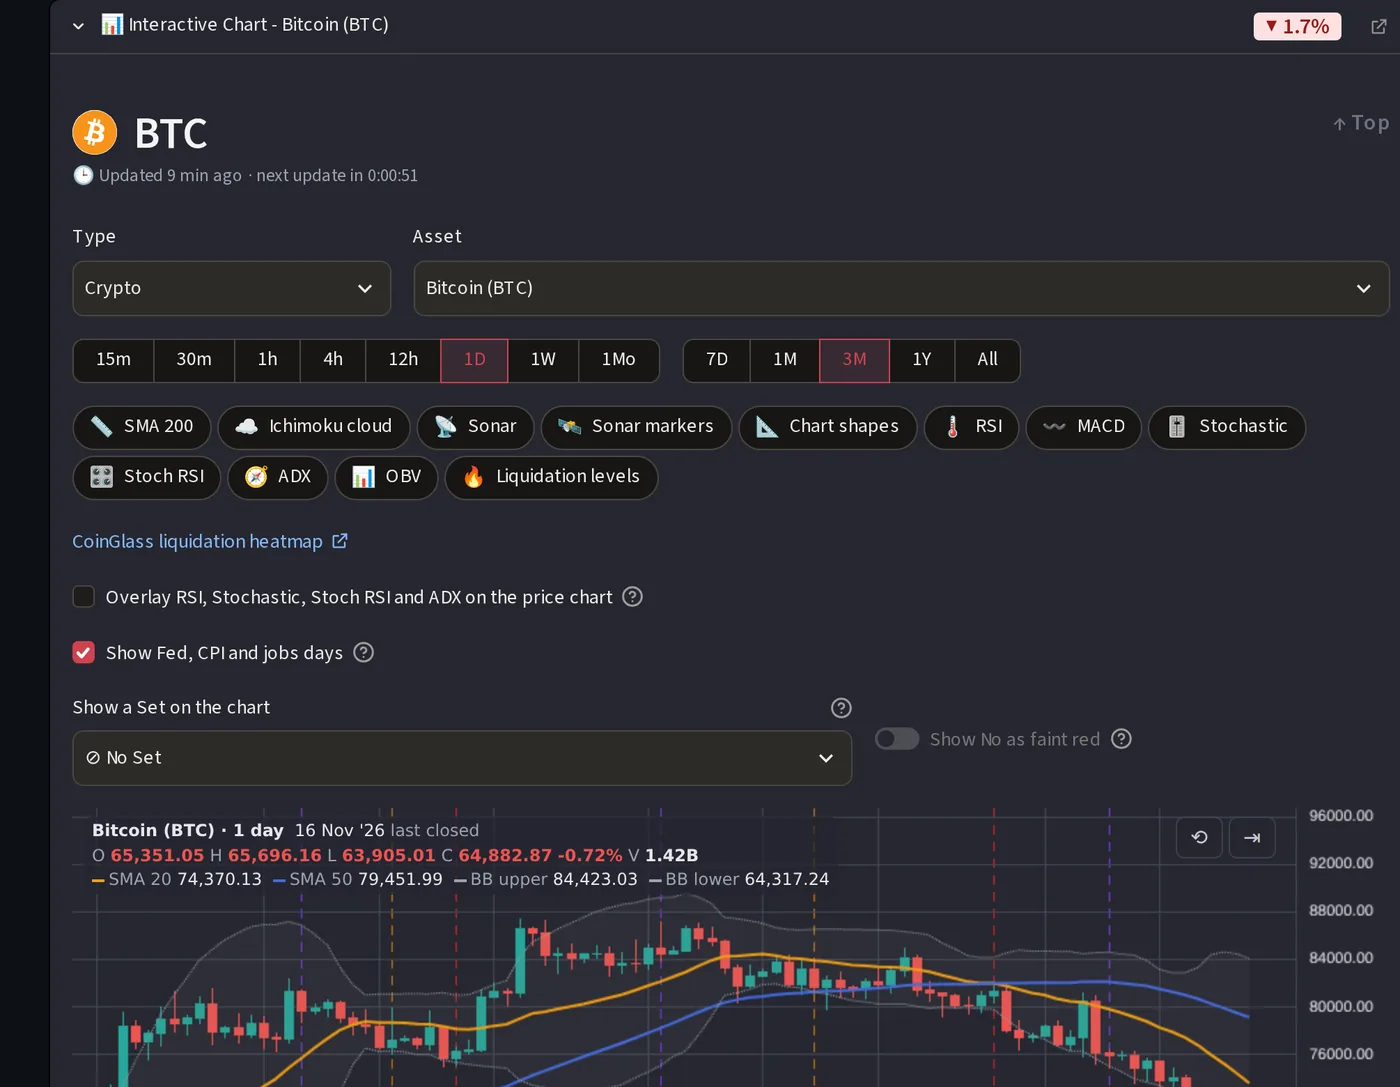
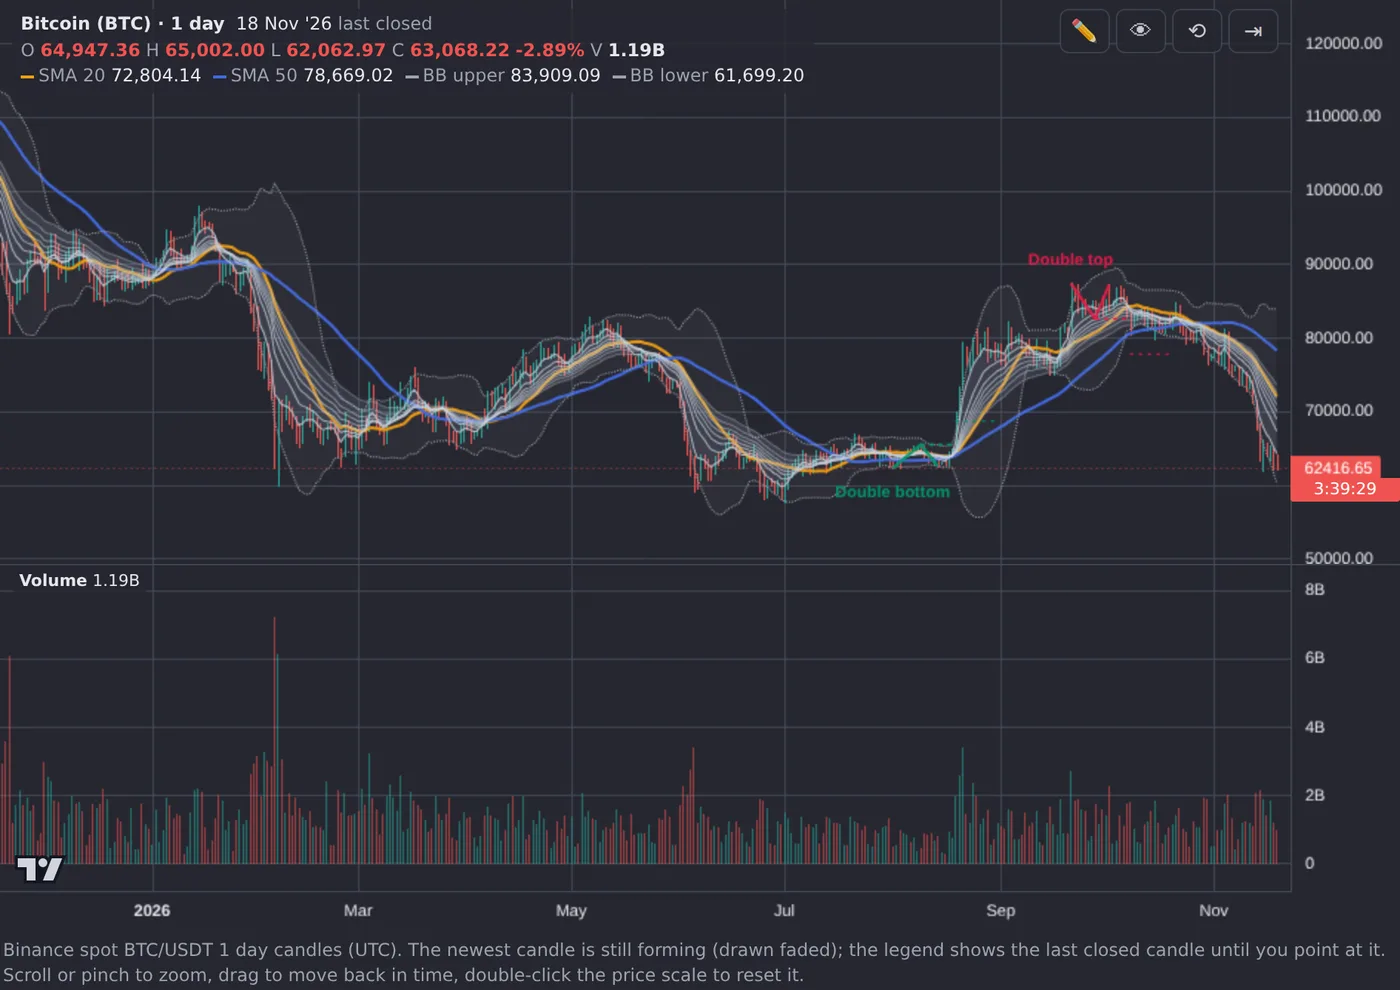
Videos: publish the Charts series (six videos) and list it in Help and guides; website: the whole chart in the features picture, and the chart paragraph brought up to date
Claude-Session: https://claude.ai/code/session_01JdgPaHbZ6wMdorgZHbfXuY

diff --git a/website/features.html b/website/features.html
@@ -74,8 +74,8 @@
   <p>A side panel on every page. Ask where things are, what a reading means, or how to build and test an idea, step by step. It knows the whole app, your watchlist, <b class="bt">Groups</b>, <b class="bt">Sets</b> and funnels, today's <b class="bt">Tides</b> and the asset you have open, and links the right training video. Paste a screenshot and ask about it. <strong>Today's <b class="bt">AI Passage Plan</b></strong> charts the day's conditions, the week's events and the winds for your own watchlist and funnels. The <b class="bt">Navigator</b> explains; you make the decisions.</p>
 
   <h2>🕯 Interactive chart</h2>
-  <p>Candles from 15 minutes to weekly, the indicators you pick, the bands from <b class="bt">Visualize History</b>, and drawing tools (lines, shapes and notes) saved to your account and shown on every timeframe. Under the chart sit Max pain, Leverage and liquidations, and the Signal matrix for the open asset.</p>
-  <figure class="shot"><a href="img/app-chart.webp" target="_blank" rel="noopener"><img src="img/app-chart.webp" alt="The interactive chart for Bitcoin with moving averages" loading="lazy" width="1400" height="1087"></a><figcaption>The interactive chart, with the indicators you choose.</figcaption></figure>
+  <p>Candles from 5 minutes (crypto) to monthly, the indicators you pick, Sonar markers, chart shapes, the bands from <b class="bt">Visualize History</b>, and Fed, CPI and jobs days. The levels traders watch: liquidation levels, fair value gaps, single prints, anchored VWAP and the volume profile. Drawing tools (trend lines, Fibonacci, measure, long and short positions, notes) are saved to your account and shown on every timeframe. Under the chart, the ladder helper plans a set of orders, by the daily move or on Fibonacci levels, and draws them on the chart.</p>
+  <figure class="shot"><a href="img/app-chart.webp" target="_blank" rel="noopener"><img src="img/app-chart.webp" alt="The interactive chart for Bitcoin on daily candles, with moving averages, a double top and a double bottom" loading="lazy" width="1400" height="990"></a><figcaption>The interactive chart: Bitcoin on daily candles, with chart shapes marked.</figcaption></figure>
 
 
   <h2>🎯 Positioning data</h2>

diff --git a/training_videos.py b/training_videos.py
@@ -64,6 +64,15 @@ SERIES = {
         ("s1-soundings", "Soundings at a glance", "1:31"),
         ("s2-soundings-in-depth", "Soundings in depth", "4:48"),
     ]),
+    # Recorded on the live site (demo account), 19-20 Nov 2026: the chart, one feature group per video.
+    "charts": ("Charts", [
+        ("c1-charts-overview", "Charts at a glance", "1:36"),
+        ("c2-drawing-tools", "Drawing tools", "1:23"),
+        ("c3-levels", "Where the money sits", "1:25"),
+        ("c4-signals-on-chart", "Signals on the chart", "1:25"),
+        ("c5-plan-entry", "Planning an entry", "1:30"),
+        ("c6-chart-to-signals", "From the chart to your signals", "1:36"),
+    ]),
 }
 STATE = "training_video"
 
